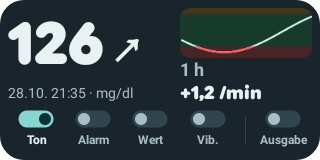
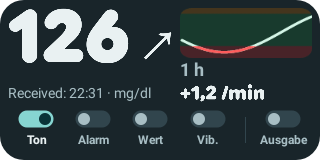
Keep rounded widget numerals in launcher and refresh documentation examples

diff --git a/companionProbe/src/test/java/de/giesen/camaps/companion/prototype/androidcheck/HomeWidgetPlatformTest.java b/companionProbe/src/test/java/de/giesen/camaps/companion/prototype/androidcheck/HomeWidgetPlatformTest.java
@@ -198,23 +198,22 @@ public class HomeWidgetPlatformTest {
     @Test public void valueDigitsAreLargeAndArrowStaysBesideThemBeforeTheChart()throws Exception {
         HomeWidget.Model m=new HomeWidget.Model(demo(false),true,false,false,false,true,output());
         View normal=layout(HomeWidget.view(c,widget,320,160,m),320,160);
-        TextView number=normal.findViewById(R.id.widget_reading);
-        assertEquals("126\u2009↗",number.getText().toString());
-        assertTrue("The reading must use native large text",number.getTextSize()>=56);
+        ImageView number=normal.findViewById(R.id.widget_reading);
         Bitmap digits=Bitmap.createBitmap(number.getWidth(),number.getHeight(),Bitmap.Config.ARGB_8888);number.draw(new Canvas(digits));
-        int firstInk=digits.getWidth();for(int y=0;y<digits.getHeight();y++)for(int x=0;x<digits.getWidth();x++)if(digits.getPixel(x,y)==number.getCurrentTextColor())firstInk=Math.min(firstInk,x);
+        Rect ink=ink(digits);int firstInk=ink.left;
+        // Measure visible glyphs rather than the former TextView's em size.
+        assertTrue("The visible reading must stay large",ink.height()>=48);
         assertTrue("The reading must begin at the leading edge instead of leaving a blank block",firstInk<18);
-        android.text.Layout line=number.getLayout();
-        assertTrue("Only a thin space should separate number and arrow",line.getPrimaryHorizontal(4)-line.getPrimaryHorizontal(3)<8);
-        assertTrue("The arrow must remain large",line.getPrimaryHorizontal(5)-line.getPrimaryHorizontal(4)>=number.getTextSize()*.6f);
+        assertTrue("The visible reading and arrow must use the available width",ink.width()>number.getWidth()*.85f);
         View wide=layout(HomeWidget.view(c,widget,560,180,m),560,180);
-        assertTrue("A wider host must give the main value more room",((TextView)wide.findViewById(R.id.widget_reading)).getTextSize()>number.getTextSize());
+        ImageView larger=wide.findViewById(R.id.widget_reading);Bitmap expanded=Bitmap.createBitmap(larger.getWidth(),larger.getHeight(),Bitmap.Config.ARGB_8888);larger.draw(new Canvas(expanded));
+        assertTrue("A wider host must give the main value more room",ink(expanded).height()>ink.height());
         assertEquals(18,((TextView)normal.findViewById(R.id.widget_period)).getTextSize(),.1);
         save("widget-balanced-wide.png",HomeWidget.view(c,widget,560,180,m),560,180);
         c.getSharedPreferences(HomeWidget.PREFS,0).edit().putBoolean("controls_"+widget,false).commit();
         save("widget-balanced-no-controls.png",HomeWidget.view(c,widget,320,220,m),320,220,false);
     }
-    @Test @Config(sdk=34,qualifiers="de-w411dp-h891dp-xxxhdpi") public void nativeTextRetainsItsDpSizeOnDenseLauncherAndThroughParcel()throws Exception {
+    @Test @Config(sdk=34,qualifiers="de-w411dp-h891dp-xxxhdpi") public void roundedNumeralsRetainTheirSizeOnDenseLauncherAndThroughParcel()throws Exception {
         HomeWidget.Model m=new HomeWidget.Model(demo(false),true,false,false,false,true,output());
         for(int width:new int[]{320,400}) {
             RemoteViews rv=HomeWidget.view(c,widget,width,160,m);Parcel parcel=Parcel.obtain();
@@ -222,9 +221,11 @@ public class HomeWidgetPlatformTest {
                 rv.writeToParcel(parcel,0);parcel.setDataPosition(0);
                 RemoteViews copy=RemoteViews.CREATOR.createFromParcel(parcel);
                 View host=layout(copy,width,160);float density=c.getResources().getDisplayMetrics().density;
-                TextView number=host.findViewById(R.id.widget_reading),period=host.findViewById(R.id.widget_period);
-                assertTrue("Dense displays must not shrink native value text",number.getTextSize()/density>=56);
-                assertEquals("The adjacent arrow must survive RemoteViews parceling","126\u2009↗",number.getText().toString());
+                ImageView number=host.findViewById(R.id.widget_reading);TextView period=host.findViewById(R.id.widget_period);
+                Bitmap visible=Bitmap.createBitmap(number.getWidth(),number.getHeight(),Bitmap.Config.ARGB_8888);number.draw(new Canvas(visible));
+                assertTrue("Dense displays must not shrink the visible value",ink(visible).height()/density>=48);
+                Bitmap before=bitmap(layout(rv,width,160),R.id.widget_reading),after=bitmap(host,R.id.widget_reading);
+                assertTrue("The exact round font and arrow must survive RemoteViews parceling",before.sameAs(after));
                 assertEquals(18,period.getTextSize()/density,.1);
                 assertTrue(host.findViewById(R.id.widget_controls).getBottom()<=host.getHeight());
                 save("widget-balanced-dense-"+width+".png",copy,width,160);
@@ -256,12 +257,46 @@ public class HomeWidgetPlatformTest {
             int thickness=0;for(int y=0;y<pixels.getHeight();y++)if(pixels.getPixel(pixels.getWidth()/2,y)==0xffd4f6e7)thickness++;
             float density=c.getResources().getDisplayMetrics().density;
             assertTrue("A line must remain visible after fitting",thickness>=density);
-            assertTrue("A height mismatch must not turn the curve into a filled band",thickness<=3*density);
+            assertTrue("A height mismatch must not turn the curve into a filled band",thickness<=4*density);
             Bitmap source=((android.graphics.drawable.BitmapDrawable)chart.getDrawable()).getBitmap();
             assertEquals("Use enough source pixels for a dense screen",256,source.getHeight());
             save("widget-balanced-height-hint-"+hint+".png",rv,400,160);
         }
     }
+    @Test @Config(sdk=34) public void restrictedLauncherKeepsExactlyThePreparedRoundFontAfterParcel()throws Exception {
+        Context launcher=c.createPackageContext(c.getPackageName(),Context.CONTEXT_RESTRICTED);assertTrue(launcher.isRestricted());
+        HomeWidget.Model m=new HomeWidget.Model(demo(false),true,false,false,false,true,output());RemoteViews rv=HomeWidget.view(c,widget,400,160,m);
+        View app=layout(rv,400,160);Parcel parcel=Parcel.obtain();
+        try{rv.writeToParcel(parcel,0);parcel.setDataPosition(0);RemoteViews copy=RemoteViews.CREATOR.createFromParcel(parcel);
+            View hosted=copy.apply(launcher,new FrameLayout(launcher));
+            for(int id:new int[]{R.id.widget_reading,R.id.widget_delta})assertTrue("Launcher restrictions must not replace the font",bitmap(app,id).sameAs(bitmap(hosted,id)));
+            int memory=0;for(int id:new int[]{R.id.widget_reading,R.id.widget_delta,R.id.widget_chart})memory+=bitmap(hosted,id).getAllocationByteCount();
+            assertTrue("Bound bitmap memory for both responsive variants",memory*2<4*1024*1024);
+        }finally{parcel.recycle();}
+    }
+    @Test public void roundNumeralsKeepEveryArrowAndBothUnitFormatsInsideTransparentBounds(){
+        for(String value:new String[]{"126","9,8","10.5","—"})for(WatchSnapshot.Trend trend:WatchSnapshot.Trend.values()){
+            String arrow=HomeWidget.arrow(trend);Bitmap with=HomeWidgetRenderer.numerals(c,value,arrow,Color.WHITE,false);
+            Bitmap without=HomeWidgetRenderer.numerals(c,value,"",Color.WHITE,false);Rect r=ink(with);
+            assertTrue(r.width()>0&&r.height()>0);assertTrue(r.left>0&&r.top>0&&r.right<with.getWidth()&&r.bottom<with.getHeight());
+            if(!arrow.isEmpty())assertTrue("Known arrow must add visible glyphs",with.getWidth()>without.getWidth());
+            assertTrue(with.getWidth()<=960&&with.getHeight()<=384);
+        }
+        for(boolean small:new boolean[]{true,false}){
+            Bitmap number=HomeWidgetRenderer.numerals(c,"0","",Color.WHITE,small),missing=HomeWidgetRenderer.numerals(c,"—","",Color.WHITE,small);
+            assertEquals("A missing-value dash uses the same line height as a numeral",number.getHeight(),missing.getHeight());
+            assertTrue("The placeholder remains a thin stroke",ink(missing).height()<ink(number).height()*.3f);
+        }
+    }
+    @Test public void receiptCaptionOmitsDateButKeepsOriginalTimeAndStaleWarning()throws Exception {
+        WatchSnapshot s=demo(false);HomeWidget.Model m=new HomeWidget.Model(s,false,false,false,false,true,output());
+        TextView stamp=layout(HomeWidget.view(c,widget,320,160,m),320,160).findViewById(R.id.widget_stamp);
+        String expected="Received: "+new java.text.SimpleDateFormat("HH:mm",Locale.getDefault()).format(new Date(s.received))+" · mg/dl";
+        assertEquals(expected,stamp.getText().toString());assertEquals(AppAppearance.colors(c).error,stamp.getCurrentTextColor());
+        assertTrue("Screen readers retain the full original timestamp",HomeWidget.description(m).contains(new java.text.SimpleDateFormat("dd.MM. HH:mm",Locale.getDefault()).format(new Date(s.received))));
+    }
+    private Bitmap bitmap(View root,int id){return ((android.graphics.drawable.BitmapDrawable)((ImageView)root.findViewById(id)).getDrawable()).getBitmap();}
+    private Rect ink(Bitmap b){Rect r=new Rect(b.getWidth(),b.getHeight(),0,0);for(int y=0;y<b.getHeight();y++)for(int x=0;x<b.getWidth();x++)if(Color.alpha(b.getPixel(x,y))>100){r.left=Math.min(r.left,x);r.top=Math.min(r.top,y);r.right=Math.max(r.right,x+1);r.bottom=Math.max(r.bottom,y+1);}return r;}
     private int pixels(Bitmap b,int color){int count=0;for(int y=0;y<b.getHeight();y++)for(int x=0;x<b.getWidth();x++)if(b.getPixel(x,y)==color)count++;return count;}
     private WatchSnapshot demo(boolean mmol){long now=System.currentTimeMillis();List<WatchSnapshot.Point> points=new ArrayList<>();for(int i=0;i<=120;i++)points.add(new WatchSnapshot.Point(now-(120-i)*60000L,126+65*Math.sin(i/17.)));return new WatchSnapshot(now,now-60000,126,WatchSnapshot.Trend.UP_RIGHT,mmol,true,1.2,80.,180.,points);}
     private View layout(RemoteViews rv,int width,int height) {

diff --git a/companionProbe/src/main/java/de/giesen/camaps/companion/prototype/HomeWidgetRenderer.java b/companionProbe/src/main/java/de/giesen/camaps/companion/prototype/HomeWidgetRenderer.java
@@ -7,6 +7,30 @@ import java.util.*;
 /** Native drawing for a bounded widget bitmap; no forecast or alarm input. */
 final class HomeWidgetRenderer {
     private final Paint p=new Paint(Paint.ANTI_ALIAS_FLAG);
+    private static Typeface rounded;
+    /** Render only the numerals locally: launcher RemoteViews cannot load app fonts reliably.
+     * Tight bounds and FIT_START preserve the typeface, adjacency and leading alignment
+     * across process boundaries without a bitmap sized from unreliable host heights.
+     * The parent data region supplies the complete accessible text and click target. */
+    static Bitmap numerals(android.content.Context context,String value,String arrow,int color,boolean small) {
+        Typeface font;
+        synchronized(HomeWidgetRenderer.class){if(rounded==null)rounded=context.getResources().getFont(R.font.gva_rounded_widget);font=rounded;}
+        Paint digits=new Paint(Paint.ANTI_ALIAS_FLAG|Paint.SUBPIXEL_TEXT_FLAG);digits.setTypeface(font);digits.setTextSize(small?128:256);digits.setColor(color);
+        Paint trend=new Paint(digits);trend.setTypeface(Typeface.create("sans-serif",Typeface.NORMAL));trend.setTextSize(digits.getTextSize()*.85f);
+        Rect a=new Rect(),b=new Rect();digits.getTextBounds(value,0,value.length(),a);
+        float arrowX=digits.measureText(value)+digits.measureText("\u2009");
+        RectF bounds=new RectF(a);Rect zero=new Rect();digits.getTextBounds("0",0,1,zero);
+        // A missing-value dash must occupy a numeral's line box; fitting its tiny
+        // ink height to the entire view would turn it into a thick bar.
+        bounds.top=Math.min(bounds.top,zero.top);bounds.bottom=Math.max(bounds.bottom,zero.bottom);
+        if(!arrow.isEmpty()){trend.getTextBounds(arrow,0,arrow.length(),b);bounds.union(arrowX+b.left,b.top,arrowX+b.right,b.bottom);}
+        float scale=Math.min(1,Math.min(956f/Math.max(1,bounds.width()),380f/Math.max(1,bounds.height())));
+        Bitmap bitmap=Bitmap.createBitmap(Math.max(1,(int)Math.ceil(bounds.width()*scale)+4),Math.max(1,(int)Math.ceil(bounds.height()*scale)+4),Bitmap.Config.ARGB_8888);
+        bitmap.setDensity(Bitmap.DENSITY_NONE);bitmap.setHasMipMap(true);
+        Canvas canvas=new Canvas(bitmap);canvas.translate(2,2);canvas.scale(scale,scale);canvas.translate(-bounds.left,-bounds.top);
+        canvas.drawText(value,0,0,digits);if(!arrow.isEmpty())canvas.drawText(arrow,arrowX,0,trend);
+        return bitmap;
+    }
     static int historyMinutes(float width){float chartWidth=(width-8)/2.25f;return chartWidth>=160?120:chartWidth>=100?60:30;}
     static String historyLabel(int minutes){return minutes==120?"2 h":minutes==60?"1 h":"30 min";}
     Bitmap image(WatchSnapshot s,boolean fresh,boolean dark,int logicalWidth,float density,int minutes,long now) {
@@ -41,7 +65,7 @@ final class HomeWidgetRenderer {
     private void segment(Canvas c,List<DiagnosticSeries.Sample> points,WatchSnapshot s,long from,long span,double lo,double hi,float left,float right,float top,float bottom,boolean dark,boolean fresh){
         if(points.isEmpty())return;Path path=new Path();DiagnosticSeries.Sample first=points.get(0);path.moveTo(x(first.time,from,span,left,right),y(first.value,lo,hi,top,bottom));
         for(double[] a:ChartCurve.controls(points))path.cubicTo(x(a[0],from,span,left,right),y(a[1],lo,hi,top,bottom),x(a[2],from,span,left,right),y(a[3],lo,hi,top,bottom),x(a[4],from,span,left,right),y(a[5],lo,hi,top,bottom));
-        p.setStyle(Paint.Style.STROKE);p.setStrokeWidth(2.25f);p.setStrokeCap(Paint.Cap.ROUND);p.setStrokeJoin(Paint.Join.ROUND);p.setColor(fresh?(dark?0xffd4f6e7:0xff156747):0xff8b9993);c.drawPath(path,p);
+        p.setStyle(Paint.Style.STROKE);p.setStrokeWidth(3.25f);p.setStrokeCap(Paint.Cap.ROUND);p.setStrokeJoin(Paint.Join.ROUND);p.setColor(fresh?(dark?0xffd4f6e7:0xff156747):0xff8b9993);c.drawPath(path,p);
         if(fresh&&s.high!=null){c.save();c.clipRect(left,top,right,y(s.high,lo,hi,top,bottom));p.setColor(dark?0xffffd28c:0xff936000);c.drawPath(path,p);c.restore();}
         if(fresh&&s.low!=null){c.save();c.clipRect(left,y(s.low,lo,hi,top,bottom),right,bottom);p.setColor(dark?0xffff5c5c:0xffc02737);c.drawPath(path,p);c.restore();}
         p.setStyle(Paint.Style.FILL);if(points.size()==1){p.setColor(!fresh?0xff8b9993:s.low!=null&&first.value<s.low?(dark?0xffff5c5c:0xffc02737):s.high!=null&&first.value>s.high?(dark?0xffffd28c:0xff936000):(dark?0xffd4f6e7:0xff156747));c.drawCircle(x(first.time,from,span,left,right),y(first.value,lo,hi,top,bottom),1.75f,p);}

diff --git a/companionProbe/src/main/java/de/giesen/camaps/companion/prototype/HomeWidget.java b/companionProbe/src/main/java/de/giesen/camaps/companion/prototype/HomeWidget.java
@@ -65,12 +65,11 @@ final class HomeWidget {
         v.setImageViewBitmap(R.id.widget_chart,new HomeWidgetRenderer().image(model.reading,model.fresh,dark,chartWidth,density,HomeWidgetRenderer.historyMinutes(dataWidth),System.currentTimeMillis()));
         WatchSnapshot s=model.reading;GlucoseUnit unit=s!=null&&s.mmol?GlucoseUnit.MMOL:GlucoseUnit.MGDL;
         int ink=model.fresh?colors.ink:colors.muted;
-        v.setTextViewText(R.id.widget_reading,readingText(s,unit));
-        v.setTextColor(R.id.widget_reading,ink);
-        String stamp=s==null?"—":new java.text.SimpleDateFormat("dd.MM. HH:mm",Locale.getDefault()).format(new Date(s.received))+" · "+unit.label;
+        v.setImageViewBitmap(R.id.widget_reading,HomeWidgetRenderer.numerals(c,s==null?"—":unit.number(s.value,Locale.getDefault()),s==null?"":arrow(s.trend),ink,false));
+        String stamp=s==null?"—":"Received: "+new java.text.SimpleDateFormat("HH:mm",Locale.getDefault()).format(new Date(s.received))+" · "+unit.label;
         v.setTextViewText(R.id.widget_stamp,stamp);v.setTextColor(R.id.widget_stamp,s!=null&&!model.fresh?colors.error:colors.muted);
         v.setTextViewText(R.id.widget_period,HomeWidgetRenderer.historyLabel(HomeWidgetRenderer.historyMinutes(dataWidth)));v.setTextColor(R.id.widget_period,colors.muted);
-        v.setTextViewText(R.id.widget_delta,s==null||!model.fresh||s.rate==null?"—":unit.rate(s.rate,Locale.getDefault()).replace(" "+unit.label," "));v.setTextColor(R.id.widget_delta,ink);
+        v.setImageViewBitmap(R.id.widget_delta,HomeWidgetRenderer.numerals(c,s==null||!model.fresh||s.rate==null?"—":unit.rate(s.rate,Locale.getDefault()).replace(" "+unit.label," "),"",ink,true));
         v.setContentDescription(R.id.widget_data,description(model)+" "+tr("Zeitraum: ","History window: ")+HomeWidgetRenderer.historyMinutes(dataWidth)+tr(" Minuten."," minutes."));
         v.setOnClickPendingIntent(R.id.widget_data,dashboard);
         v.setViewVisibility(R.id.widget_controls,show?View.VISIBLE:View.GONE);
@@ -95,16 +94,6 @@ final class HomeWidget {
     }
     static String arrow(WatchSnapshot.Trend trend) {
         switch(trend){case DOUBLE_UP:return "⇈";case UP:return "↑";case UP_RIGHT:return "↗";case FLAT:return "→";case DOWN_RIGHT:return "↘";case DOWN:return "↓";case DOUBLE_DOWN:return "⇊";default:return "";}
-    }
-    static CharSequence readingText(WatchSnapshot s,GlucoseUnit unit) {
-        String value=s==null?"—":unit.number(s.value,Locale.getDefault()),trend=s==null?"":arrow(s.trend);
-        if(trend.isEmpty())return value;
-        android.text.SpannableString text=new android.text.SpannableString(value+"\u2009"+trend);int start=value.length()+1;
-        // Android's standard parcelable spans keep the arrow adjacent after the
-        // RemoteViews transfer, without relying on the numerals font for its glyph.
-        text.setSpan(new android.text.style.TypefaceSpan("sans-serif"),start,text.length(),android.text.Spanned.SPAN_EXCLUSIVE_EXCLUSIVE);
-        text.setSpan(new android.text.style.RelativeSizeSpan(.85f),start,text.length(),android.text.Spanned.SPAN_EXCLUSIVE_EXCLUSIVE);
-        return text;
     }
     private static void toggle(RemoteViews v,int text,int track,String label,boolean enabled,boolean dark,AppAppearance.Colors colors) {
         v.setTextViewText(text,label);v.setTextColor(text,enabled?colors.ink:colors.muted);

diff --git a/docs/PHONE_REFERENCE.de.md b/docs/PHONE_REFERENCE.de.md
@@ -13,11 +13,11 @@ Die native Statusleistenanzeige erhält nur die Zahl in der gewählten Einheit, 
 
 ## Startbildschirm-Widget
 
-Ab Telefonversion 0.20.0 enthält GVA ein größenanpassbares Widget. Ab 0.20.2 stehen Wert und CamAPS-Pfeil groß links, die flache Kurve rechts daneben. Darunter folgen ursprüngliches Empfangsdatum/Uhrzeit, Einheit und Delta pro Minute. Einheit und Hell-/Dunkeldarstellung folgen der App; die Zeit ist kein bestätigter Sensor-Messzeitpunkt.
+Ab Telefonversion 0.20.0 enthält GVA ein größenanpassbares Widget. Ab 0.20.2 stehen Wert und CamAPS-Pfeil groß links, die flache Kurve rechts daneben. Darunter folgen die ursprüngliche Empfangsuhrzeit mit „Received:“, Einheit und Delta pro Minute. Einheit und Hell-/Dunkeldarstellung folgen der App; die Zeit ist kein bestätigter Sensor-Messzeitpunkt.
 
 Die Kurve zeigt je nach verfügbarer Breite 30 Minuten, eine oder zwei Stunden. „30 min“, „1 h“ oder „2 h“ steht direkt darunter. GVA reserviert zuerst Platz für Wert und Pfeil und verkürzt bei weniger Breite den Kurvenzeitraum. Die Beschriftung bezeichnet das sichtbare Zeitfenster; fehlende Daten bleiben darin offen. Die Diagnosekurve im Dashboard zeigt weiterhin sechs Stunden.
 
-Halte eine freie Stelle auf dem Startbildschirm gedrückt und wähle Widgets → Glucose Voice Alarm → GVA · Glukose. Ab 0.20.3 beträgt die Mindesthöhe 120 dp. Wert, Pfeil und Beschriftungen sind native Textelemente. Für Hauptwert und Delta enthält das Widget eine kräftige, runde Variante von Google Sans Flex unter SIL OFL 1.1. Sie wird mitgeliefert und benötigt keine bestimmte auf dem Telefon installierte Schrift. Die Uhr verwendet weiterhin Roboto Flex. Der Wert steht linksbündig, der Pfeil daneben. Nur die Kurve wird als Grafik gezeichnet; ihre Zeichenhöhe bleibt beim Größenwechsel fest, damit eine ungenaue Höhenangabe des Launchers die Linie nicht stark verbreitert. Die Zeitraumangabe ist größer und die Kurve nutzt die verfügbare Höhe. Eine feste 4×2-Rastervorgabe entfällt. Die Rastergröße und benötigten Zellen bestimmt der Launcher anhand der Mindestmaße. Ein vorhandenes Widget kannst Du dort selbst flacher ziehen.
+Halte eine freie Stelle auf dem Startbildschirm gedrückt und wähle Widgets → Glucose Voice Alarm → GVA · Glukose. Ab 0.20.3 beträgt die Mindesthöhe 120 dp. Ab 0.20.5 werden Wert/Pfeil und Delta als scharf aufgelöste, begrenzte Grafiken gezeichnet. So bleibt die mitgelieferte runde Schrift auch im eingeschränkten Launcher-Kontext erhalten. Zeit und Zeitraumangabe bleiben native Textelemente. Für Hauptwert und Delta enthält das Widget eine kräftige, runde Variante von Google Sans Flex unter SIL OFL 1.1. Sie wird mitgeliefert und benötigt keine bestimmte auf dem Telefon installierte Schrift. Die Uhr verwendet weiterhin Roboto Flex. Der Wert steht linksbündig, der Pfeil daneben. Die Kurve wird etwas kräftiger gezeichnet; ihre Zeichenhöhe bleibt beim Größenwechsel fest, damit eine ungenaue Höhenangabe des Launchers die Linie nicht stark verbreitert. Die Zeitraumangabe ist größer und die Kurve nutzt die verfügbare Höhe. Eine feste 4×2-Rastervorgabe entfällt. Die Rastergröße und benötigten Zellen bestimmt der Launcher anhand der Mindestmaße. Ein vorhandenes Widget kannst Du dort selbst flacher ziehen.
 
 Die Schalterzeile bleibt auch bei niedriger Höhe sichtbar: Ton, Alarm-Sprache („Alarm“), Wertansagen („Wert“), Vibration und der Hauptschalter „Ausgabe“. Die Toggles sind größer; bei ausreichender Breite trennt etwas Abstand mit einer dezenten Linie die Ausgabe von den vier Kanälen. Die Schalterstellung zeigt an/aus; bei laufender globaler Pause heißt der Hauptschalter „Pause“. Antippen der übrigen Fläche öffnet das Dashboard. Profile und weitere Einstellungen sind in der App erreichbar. Über die Widget-Bearbeitung des Launchers lässt sich die Schalterzeile weiterhin pro Widget ausblenden, sofern der Launcher diese Funktion anbietet.
 
@@ -56,7 +56,7 @@ Wenn CamAPS bereits die Glukosedaten empfängt und die Therapie steuert, kann si
 
 ## Umfang und Grenzen
 
-Vorbereitet ist die Telefonversion 0.20.4 Beta. Entwicklung und Telefonprüfungen konzentrierten sich auf Pixel 7 Pro mit Android 17 und CamAPS FX 1.4(194).111. Andere Geräte, Android-Varianten und CamAPS-Versionen müssen gesondert geprüft werden. Die App verarbeitet unterstützte CamAPS-Benachrichtigungen in **mg/dl oder mmol/l**. Andere CGM-Quellen, direkte Sensoranbindung und Pumpensteuerung sind nicht enthalten.
+Vorbereitet ist die Telefonversion 0.20.5 Beta. Entwicklung und Telefonprüfungen konzentrierten sich auf Pixel 7 Pro mit Android 17 und CamAPS FX 1.4(194).111. Andere Geräte, Android-Varianten und CamAPS-Versionen müssen gesondert geprüft werden. Die App verarbeitet unterstützte CamAPS-Benachrichtigungen in **mg/dl oder mmol/l**. Andere CGM-Quellen, direkte Sensoranbindung und Pumpensteuerung sind nicht enthalten.
 
 Optional sind [GVA Watch und das Zifferblatt GVA Dots](../companionWear/README.de.md) teilweise auf der Galaxy Watch5 Pro mit Wear OS 6 / One UI 8 Watch erprobt. Sie zeigen Werte und einen kurzen Verlauf; angenommene Telefonalarme lassen sich zusätzlich weiterleiten. Die Telefonübertragung ist zunächst aus. Aktualisierung der Komplikationen, Alarmzustellung und Akkuverbrauch benötigen weitere Geräteprüfungen.
 
@@ -66,7 +66,7 @@ Die angezeigte Zeit ist Empfangs-/Verarbeitungszeit, kein bestätigter Sensor-Me
 
 ## Anzeige auf der Uhr
 
-GVA Watch 0.19.0 Beta und das codefreie Zifferblatt GVA Dots 0.1.5 Beta passen zur vorbereiteten Telefonversion 0.20.4 Beta. Die runde Anzeige verwendet Roboto Flex, eine Kurve über eine oder zwei Stunden und eine reduzierte gedimmte Ansicht. Menüs nutzen die offiziellen Wear-Material-3-Komponenten. Die Uhren-App bietet zusätzlich eine Kachel im selben Aufbau ohne Uhrzeit-Punkte. Neben Sammelfeld und Alter lassen sich Wert, CamAPS-Trend, Delta pro Minute und Kurve einzeln in passenden fremden Zifferblättern auswählen. Die Uhr zeigt Daten und kann angenommene Telefonalarme mit Vibration weitergeben. Eine eigene Glukosealarmberechnung ist nicht enthalten. [Einrichtung und Grenzen](../companionWear/README.de.md). Die Alltagserprobung läuft; neue Einzelkomplikationen und Kachel müssen noch am Gerät geprüft werden.
+GVA Watch 0.19.0 Beta und das codefreie Zifferblatt GVA Dots 0.1.5 Beta passen zur vorbereiteten Telefonversion 0.20.5 Beta. Die runde Anzeige verwendet Roboto Flex, eine Kurve über eine oder zwei Stunden und eine reduzierte gedimmte Ansicht. Menüs nutzen die offiziellen Wear-Material-3-Komponenten. Die Uhren-App bietet zusätzlich eine Kachel im selben Aufbau ohne Uhrzeit-Punkte. Neben Sammelfeld und Alter lassen sich Wert, CamAPS-Trend, Delta pro Minute und Kurve einzeln in passenden fremden Zifferblättern auswählen. Die Uhr zeigt Daten und kann angenommene Telefonalarme mit Vibration weitergeben. Eine eigene Glukosealarmberechnung ist nicht enthalten. [Einrichtung und Grenzen](../companionWear/README.de.md). Die Alltagserprobung läuft; neue Einzelkomplikationen und Kachel müssen noch am Gerät geprüft werden.
 
 Die optionale Weiterleitung eigener Alarme und Datenlückenwarnungen an GVA Watch ist ab 0.18.0 getrennt von den Anzeigedaten einschaltbar. Auf der Uhr erscheinen eigene Benachrichtigungen mit Vibration. Beide Apps benötigen eine Freigabe; unter Darstellung → Uhr gibt es einen ausdrücklich bezeichneten Test ohne Messwerte. Die Weiterleitung folgt angenommenen Telefonalarm-Ausgaben und arbeitet ohne Offline-Nachholung. Normale Werte erzeugen keine Uhrenbenachrichtigung. [Einrichtung und Grenzen](../companionWear/README.de.md#einrichtung-und-alarme).
 

diff --git a/docs/PHONE_REFERENCE.md b/docs/PHONE_REFERENCE.md
@@ -13,11 +13,11 @@ The native status-bar chip receives only the number in the selected unit, withou
 
 ## Home-screen widget
 
-Phone version 0.20.0 introduced a resizable GVA widget. From 0.20.2, the large reading and CamAPS arrow share the left side, with a flat chart beside them on the right. The original receipt date/time, unit and delta per minute appear below. Units and light/dark appearance follow the app; the timestamp is not a verified sensor measurement time.
+Phone version 0.20.0 introduced a resizable GVA widget. From 0.20.2, the large reading and CamAPS arrow share the left side, with a flat chart beside them on the right. The original receipt time, marked “Received:”, unit and delta per minute appear below. Units and light/dark appearance follow the app; the timestamp is not a verified sensor measurement time.
 
 Depending on the available width, the chart shows 30 minutes, one or two hours, labeled directly below as “30 min”, “1 h” or “2 h”. GVA reserves space for the reading and arrow first and shortens the chart window as width decreases. The label describes the visible time window; missing data stays empty within it. The dashboard diagnostic chart still covers six hours.
 
-Long-press an empty area of the home screen and select Widgets → Glucose Voice Alarm → GVA · Glucose. From 0.20.3, the minimum height is 120 dp. The reading, arrow and labels use native text views. The widget bundles a heavy, rounded instance of Google Sans Flex for the reading and delta under SIL OFL 1.1, without relying on a particular font being installed on the phone. The watch continues to use Roboto Flex. The reading is left-aligned, with the arrow beside it. Only the chart is drawn as an image, using a fixed drawing height so that an inaccurate launcher height hint cannot greatly widen the line. The history-window label is larger, and the chart uses the available height. There is no fixed 4×2 grid request. The launcher determines the grid size and required cells from the minimum dimensions. You can make an existing widget shorter there.
+Long-press an empty area of the home screen and select Widgets → Glucose Voice Alarm → GVA · Glucose. From 0.20.3, the minimum height is 120 dp. From 0.20.5, the reading/arrow and delta are drawn as sharp, bounded images so the bundled round font survives the launcher’s restricted context. Time and history-window labels remain native text views. The widget bundles a heavy, rounded instance of Google Sans Flex for the reading and delta under SIL OFL 1.1, without relying on a particular font being installed on the phone. The watch continues to use Roboto Flex. The reading is left-aligned, with the arrow beside it. The chart has a slightly thicker line and uses a fixed drawing height so that an inaccurate launcher height hint cannot greatly widen the line. The history-window label is larger, and the chart uses the available height. There is no fixed 4×2 grid request. The launcher determines the grid size and required cells from the minimum dimensions. You can make an existing widget shorter there.
 
 The toggle row remains visible at low heights: sound, alarm speech (“Alarm”), reading speech (“Reading”), vibration and the output master switch. Toggles are larger, with extra space and a subtle divider separating output from the four channels when width permits. Switch positions show on/off; during a running global pause, the master label reads “Paused”. Tapping elsewhere opens the dashboard. Profiles and other settings remain available in the app. Launchers that support widget editing can still hide the toggle row for each widget.
 
@@ -56,7 +56,7 @@ With CamAPS already collecting glucose data and controlling therapy, a companion
 
 ## Scope and limitations
 
-The prepared phone version is 0.20.4 Beta. Development and phone device checks have focused on a Pixel 7 Pro with Android 17 and CamAPS FX 1.4(194).111. Other devices, Android variants and CamAPS versions need separate verification. The app targets supported CamAPS notifications in **mg/dl or mmol/l**. It does not offer arbitrary CGM inputs, direct sensor communication or pump control.
+The prepared phone version is 0.20.5 Beta. Development and phone device checks have focused on a Pixel 7 Pro with Android 17 and CamAPS FX 1.4(194).111. Other devices, Android variants and CamAPS versions need separate verification. The app targets supported CamAPS notifications in **mg/dl or mmol/l**. It does not offer arbitrary CGM inputs, direct sensor communication or pump control.
 
 Optional [GVA Watch and the GVA Dots face](../companionWear/README.en.md) have been tested in part on a Galaxy Watch5 Pro running Wear OS 6 / One UI 8 Watch. They show readings and a short chart, with optional forwarding of accepted phone alerts. Phone-to-watch transfer starts off. Complication timing, alarm delivery and battery use need further device testing.
 
@@ -66,7 +66,7 @@ The time shown is receipt/processing time, not a verified sensor measurement tim
 
 ## Watch display
 
-GVA Watch 0.19.0 Beta and the code-free GVA Dots 0.1.5 Beta face work with the prepared phone version 0.20.4 Beta. The round display uses Roboto Flex, a one- or two-hour curve and a reduced ambient view. Menus use official Wear Material 3 components. The watch app also supplies a tile with the same data layout, without time dots. Alongside the composite display and age source, separate reading, CamAPS trend, delta per minute and chart sources can be selected in compatible third-party faces. The watch displays data and can relay accepted phone alarms with vibration. It does not calculate glucose alarms independently. See [watch setup and limits](../companionWear/README.en.md). Everyday device testing continues; the new standalone complications and tile still need device acceptance.
+GVA Watch 0.19.0 Beta and the code-free GVA Dots 0.1.5 Beta face work with the prepared phone version 0.20.5 Beta. The round display uses Roboto Flex, a one- or two-hour curve and a reduced ambient view. Menus use official Wear Material 3 components. The watch app also supplies a tile with the same data layout, without time dots. Alongside the composite display and age source, separate reading, CamAPS trend, delta per minute and chart sources can be selected in compatible third-party faces. The watch displays data and can relay accepted phone alarms with vibration. It does not calculate glucose alarms independently. See [watch setup and limits](../companionWear/README.en.md). Everyday device testing continues; the new standalone complications and tile still need device acceptance.
 
 From version 0.18.0, forwarding GVA alarms and data-gap warnings to GVA Watch can be enabled separately from display transfer. The watch creates its own notifications with vibration. Both apps require opt-in; Appearance → Watch includes a labeled test without readings. Forwarding follows accepted phone alarm outputs, without offline replay. Routine readings do not create watch notifications. [Setup and limits](../companionWear/README.en.md#watch-alerts).
 

diff --git a/docs/STATUS.md b/docs/STATUS.md
@@ -6,7 +6,7 @@
 
 | Component | Version | Source minimum / special requirement |
 |---|---|---|
-| Phone | 0.20.4 Beta | Android API 26 minimum declaration; native large metric display requires Android 17/API 37 |
+| Phone | 0.20.5 Beta | Android API 26 minimum declaration; native large metric display requires Android 17/API 37 |
 | GVA Watch, including tile and six complication sources | 0.19.0 Beta | API 30 minimum declaration; some dynamic-age behavior requires newer APIs |
 | GVA Dots | 0.1.5 Beta | Wear OS 4+, Watch Face Format v1 |
 
@@ -14,9 +14,9 @@ The phone/watch application ID and signing key must match for Google Play servic
 
 ## What has been checked
 
-The phone suite contains 647 synthetic checks; the watch suite contains 50, including four tile checks. Native renderings cover phone themes/settings, the widget, watch data views, the tile and complication graphics. The source review checks imported xDrip rule hashes, private-file exclusions, local links, dependency/font notices, package identity and independent debug signing. Tests do not establish clinical safety or reliable alarm delivery. On 28 October 2026, the exported repository was independently rebuilt with all 647 phone checks and 50 watch checks passing (697 total). All three APKs compiled using a matching ordinary debug identity, without the private developer key. Those APKs were used only for validation and are not distributed. The installed apps were not changed during this documentation/source preparation.
+The phone suite contains 650 synthetic checks; the watch suite contains 50, including four tile checks. Native renderings cover phone themes/settings, the widget, watch data views, the tile and complication graphics. The source review checks imported xDrip rule hashes, private-file exclusions, local links, dependency/font notices, package identity and independent debug signing. Tests do not establish clinical safety or reliable alarm delivery. On 28 October 2026, the exported repository was independently rebuilt with all 650 phone checks and 50 watch checks passing (700 total). All three APKs compiled using a matching ordinary debug identity, without the private developer key. Those APKs were used only for validation and are not distributed. The installed apps were not changed during this documentation/source preparation.
 
-Device work has focused on Pixel 7 Pro, Android 17, CamAPS FX 1.4(194).111, and Galaxy Watch5 Pro, Wear OS 6/One UI 8 Watch. The user observed value/trend speech and phone live-display behavior. The watch-face appearance, age field and worn ambient display were checked. Watch active-mode updates were observed approximately once per minute. The current phone widget was left in place for everyday use after layout revisions. These observations are not a compatibility or reliability guarantee.
+Device work has focused on Pixel 7 Pro, Android 17, CamAPS FX 1.4(194).111, and Galaxy Watch5 Pro, Wear OS 6/One UI 8 Watch. The user observed value/trend speech and phone live-display behavior. The watch-face appearance, age field and worn ambient display were checked. Watch active-mode updates were observed approximately once per minute. Phone widget 0.20.4 was left in place after layout revisions. Version 0.20.5 changes the round-font transfer, line weight and receipt caption; its Pixel launcher appearance still needs device acceptance. These observations are not a compatibility or reliability guarantee.
 
 ## Open before broader use
 

diff --git a/docs/BUILDING.de.md b/docs/BUILDING.de.md
@@ -66,7 +66,7 @@ python tools/check_upstream_rules.py
 
 Wenn sqlite4java unter Windows mit langen WAL-Pfaden scheitert, wähle einen kurzen beschreibbaren Testordner. `probeTestTmp` legt ihn fest; der Standard ist `../t` relativ zum Repository. Gradle und Robolectric laden beim ersten Test Abhängigkeiten herunter, was viel Speicher benötigen kann. XML-/HTML-Berichte und synthetische native UI-Bilder bleiben im ignorierten `build/` des Moduls.
 
-`-PprobeFastCheck` führt nur den reinen Java-Teil aus und ersetzt nicht die vollständige Prüfung. Der Telefonstand hat 647 synthetische Prüfungen, unter anderem für Speicherformate, Profile, deutsche/englische Oberfläche und Sprache, Einheiten, Erststart-Bestätigungen und das Uhren-Anzeigeformat. Native Darstellungen decken beide Sprachen und Themen sowie große Schrift ab. Das Uhrenmodul ergänzt 50 Prüfungen, darunter die getrennten Bestätigungen und Menüaktionen, sowie synthetische Anzeige- und Menüansichten. Das belegt keine Zuverlässigkeit, Hörbarkeit oder klinische Sicherheit am echten Gerät.
+`-PprobeFastCheck` führt nur den reinen Java-Teil aus und ersetzt nicht die vollständige Prüfung. Der Telefonstand hat 650 synthetische Prüfungen, unter anderem für Speicherformate, Profile, deutsche/englische Oberfläche und Sprache, Einheiten, Erststart-Bestätigungen und das Uhren-Anzeigeformat. Native Darstellungen decken beide Sprachen und Themen sowie große Schrift ab. Das Uhrenmodul ergänzt 50 Prüfungen, darunter die getrennten Bestätigungen und Menüaktionen, sowie synthetische Anzeige- und Menüansichten. Das belegt keine Zuverlässigkeit, Hörbarkeit oder klinische Sicherheit am echten Gerät.
 
 Uhren-App und codefreies Zifferblatt haben unter `watch-build/` einen getrennten Build mit JDK 21 und Android SDK Platform 35. Gepinnt sind Gradle 8.9, AGP 8.7.2 und Kotlin 2.1.21 für Wear Compose Material 3. Die Telefonwerkzeuge oben bleiben unverändert. In einer für das Uhren-JDK und SDK eingerichteten Shell:
 

diff --git a/docs/BUILDING.md b/docs/BUILDING.md
@@ -66,7 +66,7 @@ python tools/check_upstream_rules.py
 
 Use a short writable test-temp path on Windows if sqlite4java has trouble with long WAL paths. The optional `probeTestTmp` property selects that directory. By default the test directory is `../t` relative to the repository. Gradle and Robolectric download dependencies on the first test run; this can be large. Test XML/HTML reports and native synthetic UI previews remain under the ignored module `build/` directory.
 
-`-PprobeFastCheck` runs only the pure Java subset. It is useful during development and does not replace the full suite. The phone baseline has 647 complete synthetic checks, including storage schemas, profiles, German/English UI and speech, unit conversion, first-start gates and the watch display protocol. Native synthetic renders cover both languages and themes, including large text. The watch module has 50 checks in total, including separate consent confirmations and menu actions, plus synthetic display and menu renders. These checks do not establish real-device reliability, audibility or clinical safety.
+`-PprobeFastCheck` runs only the pure Java subset. It is useful during development and does not replace the full suite. The phone baseline has 650 complete synthetic checks, including storage schemas, profiles, German/English UI and speech, unit conversion, first-start gates and the watch display protocol. Native synthetic renders cover both languages and themes, including large text. The watch module has 50 checks in total, including separate consent confirmations and menu actions, plus synthetic display and menu renders. These checks do not establish real-device reliability, audibility or clinical safety.
 
 The watch app and code-free face use the separate `watch-build/` project with JDK 21 and Android SDK Platform 35. Its pinned Gradle 8.9 / AGP 8.7.2 / Kotlin 2.1.21 build supports Wear Compose Material 3. The phone toolchain above stays unchanged. In a shell configured for the watch JDK and SDK:
 

diff --git a/companionProbe/README.de.md b/companionProbe/README.de.md
@@ -2,7 +2,7 @@
 
 [Projektübersicht](../README.de.md) · [English](README.md) · [GVA Watch](../companionWear/README.de.md) · [GVA Dots](../companionWatchFace/README.de.md)
 
-Die Telefon-App empfängt unterstützte CamAPS-Benachrichtigungen, prüft ihre eingestellten Alarme und versorgt die anderen GVA-Anzeigen. Version **0.20.4 Beta**. Sie funktioniert ohne die beiden Uhrenkomponenten.
+Die Telefon-App empfängt unterstützte CamAPS-Benachrichtigungen, prüft ihre eingestellten Alarme und versorgt die anderen GVA-Anzeigen. Version **0.20.5 Beta**. Sie funktioniert ohne die beiden Uhrenkomponenten.
 
 **Experimentelles Forschungswerkzeug; nicht für medizinische Verwendung oder Therapieentscheidungen.** Lies [SAFETY.de.md](../SAFETY.de.md). CamAPS steuert weiterhin Sensor und Pumpe.
 
@@ -18,7 +18,7 @@ Synthetische Beispiele. Dashboard und Einstellungen sind native App-Renderings; 
 
 </details>
 
-Das Widget bietet optional eine Schalterzeile für Ton, Alarm-Sprache, Wertansagen, Vibration und Ausgabe. Je nach Breite zeigt die beschriftete Kurve 30 Minuten, eine oder zwei Stunden. Die ursprüngliche Empfangszeit bleibt sichtbar. Die übrige Fläche öffnet die App.
+Das Widget bietet optional eine Schalterzeile für Ton, Alarm-Sprache, Wertansagen, Vibration und Ausgabe. Je nach Breite zeigt die beschriftete Kurve 30 Minuten, eine oder zwei Stunden. Wert/Pfeil und Delta verwenden die mitgelieferte runde Schrift auch im Launcher. Die Kurve ist etwas kräftiger; „Received: HH:mm“ zeigt die ursprüngliche Empfangsuhrzeit ohne Datum. Die übrige Fläche öffnet die App.
 
 ## Ausgabe und Einstellungen
 

diff --git a/companionProbe/README.md b/companionProbe/README.md
@@ -2,7 +2,7 @@
 
 [Project overview](../README.md) · [Deutsch](README.de.md) · [GVA Watch](../companionWear/README.md) · [GVA Dots](../companionWatchFace/README.md)
 
-The phone app receives supported CamAPS notifications, evaluates its configured alarms and supplies all other GVA displays. Version **0.20.4 Beta**. The phone works without either watch component.
+The phone app receives supported CamAPS notifications, evaluates its configured alarms and supplies all other GVA displays. Version **0.20.5 Beta**. The phone works without either watch component.
 
 **Experimental research tool; not for medical use or treatment decisions.** Read [SAFETY.md](../SAFETY.md). CamAPS continues to control the sensor and pump.
 
@@ -18,7 +18,7 @@ Synthetic examples. Dashboard and setting images are native app renderings; the 
 
 </details>
 
-The widget has an optional single row of sound, alarm speech, reading speech, vibration and output toggles. Its chart switches between labeled 30-minute, one-hour and two-hour windows as width changes. Original receipt time remains visible. The entire remaining surface opens the app.
+The widget has an optional single row of sound, alarm speech, reading speech, vibration and output toggles. Its chart switches between labeled 30-minute, one-hour and two-hour windows as width changes. The reading/arrow and delta use the bundled round font in the launcher. The curve has a slightly thicker line; “Received: HH:mm” shows the original receipt time without a date. The entire remaining surface opens the app.
 
 ## Output and settings
 

diff --git a/README.de.md b/README.de.md
@@ -10,7 +10,7 @@ Glucose Voice Alarm (GVA) liest Glukosewerte und Trendpfeile aus **CamAPS-Benach
 
 | Komponente | Aktueller Quellstand | Aufgabe |
 |---|---|---|
-| [Glucose Voice Alarm — Telefon](companionProbe/README.de.md) | 0.20.4 Beta | CamAPS-Empfang, konfigurierbare Alarme und Sprache, Dashboard, AOD/Sperrbildschirm und Widget |
+| [Glucose Voice Alarm — Telefon](companionProbe/README.de.md) | 0.20.5 Beta | CamAPS-Empfang, konfigurierbare Alarme und Sprache, Dashboard, AOD/Sperrbildschirm und Widget |
 | [GVA Watch](companionWear/README.de.md) | 0.19.0 Beta | Uhrenanzeige, Kachel, sechs Komplikationsquellen und optionale Telefonalarme mit Uhrenvibration |
 | [GVA Dots](companionWatchFace/README.de.md) | 0.1.5 Beta | Rundes Zifferblatt mit Uhrzeitpunkten, Wert/Pfeil, kurzem Verlauf, Alter und Delta |
 

diff --git a/README.md b/README.md
@@ -10,7 +10,7 @@ Glucose Voice Alarm (GVA) reads glucose values and trend arrows from **CamAPS no
 
 | Component | Current source version | Role |
 |---|---|---|
-| [Glucose Voice Alarm — phone](companionProbe/README.md) | 0.20.4 Beta | CamAPS receipt, configurable alarms and speech, dashboard, AOD/lock-screen notification and widget |
+| [Glucose Voice Alarm — phone](companionProbe/README.md) | 0.20.5 Beta | CamAPS receipt, configurable alarms and speech, dashboard, AOD/lock-screen notification and widget |
 | [GVA Watch](companionWear/README.md) | 0.19.0 Beta | Watch display, tile, six complication sources, and optional relayed phone alarms with vibration |
 | [GVA Dots](companionWatchFace/README.md) | 0.1.5 Beta | Round watch face with time dots, value/arrow, short history, age and delta |
 
